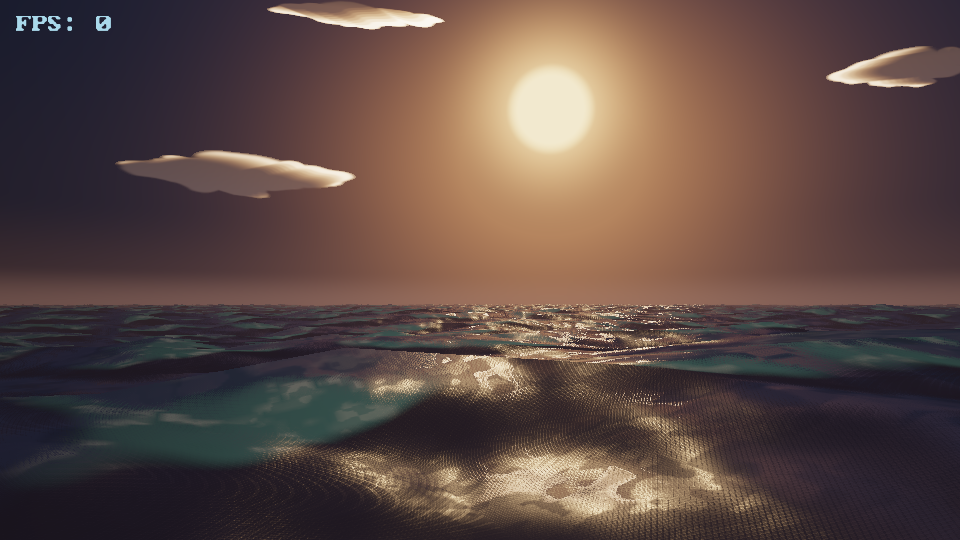
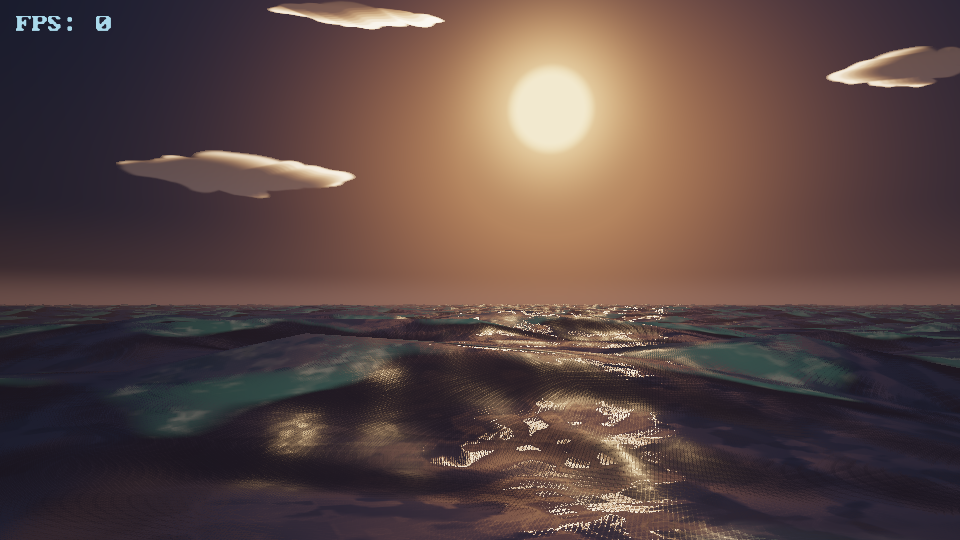
Calm the sea horizon sparkle, keep pool water blue, hold the pool camera at plane level
TideBench: the #41 sunLift blurred whole sparkle rows into a banded white
horizon film — the lift is now gentle and tightly gated (2.6->0.9 gain,
pow 6->8). Horizon-band orphans drop 11 -> 4-6 across runs and the speckle
band loses ~0.05 mean brightness versus #41.

PoolBench: the wave-two camera drift was a chase — it pulled back AND rose
after the falling fleet, so the water fell out of frame and the room read
as one hot pink wash. The gaze now averages pot positions in PLAN VIEW only
(height flattened) and sits at waterline level; the pull-back ramp is
gentler (3.4 -> 1.6, height factor 0.35 -> 0.10) so falling pots drop INTO
frame. The #41 tile-average body tint washed the blue out at plane-level
views: restored the stronger blue body, cut the resting mirror share
(0.28 -> 0.20) and added red absorption (col * vec3(0.90, 0.99, 1.07)) so
reflected light keeps the pool blue; near-water now measures r 0.574 <
b 0.621 (was 0.96/0.74/0.77 after #41). Foam-trail halo kept but tamed
(0.45 -> 0.22).

README: pool_teapot re-shot at t=13.1 (wave-two impacts in frame), tide
screenshot refreshed, copy updated for the level camera and blue body.

Verified headless on llvmpipe/xvfb: shaders pass glslangValidator, clean
make -j4 (zero warnings), full --scene-only and --pool-only runs print
Benchmark Results.

🤖 Generated with Codebuff

Changed region(s): [[0.0312, 0.563, 1.0, 1.0], [0.0312, 0.5926, 0.0938, 0.6222], [0.0, 0.6222, 0.0312, 0.6519]]

diff --git a/README.md b/README.md
@@ -126,10 +126,12 @@ What it renders :
   soft directional wash toward a **hidden light source** — there is no sun disc, no lamp model:
   the light is only ever visible through the shading it produces
 - **Open water** that analytically mirrors the same checker function the sky uses, so the reflection
-  lines up with the sky across the horizon, plus fresnel dimming, distance haze, an energy-true GGX light glint, a body tint from the room's own tile light, and foam that churns with animated turbulence and lingers as fading trails behind each splash
+  lines up with the sky across the horizon, plus fresnel dimming, a red-absorbing blue body, distance haze, an energy-true GGX light glint, and foam trails that linger and fade behind each splash
 - **Two waves of teapots** — 18 in total (the real Utah teapot, `assets/teapot.obj`, one material,
   placeholder texture you can swap). Wave one rains down over the first ten seconds; wave two opens
-  up on the pool's outer ring from ~11 s. Each pot has scattered positions, sizes and drop heights
+  up on the pool's outer ring from ~11 s — and the camera stays at water-plane
+  level while they fall: the drops come down INTO frame, it never chases or
+  rises after the fleet. Each pot has scattered positions, sizes and drop heights
   on a staggered timeline, with real-ish physics: gravity and tumble in the air, splash with
   rebound on impact, buoyancy + drag underwater, then a damped bob to rest while it slowly rights
   itself. `R` re-drops the whole fleet
